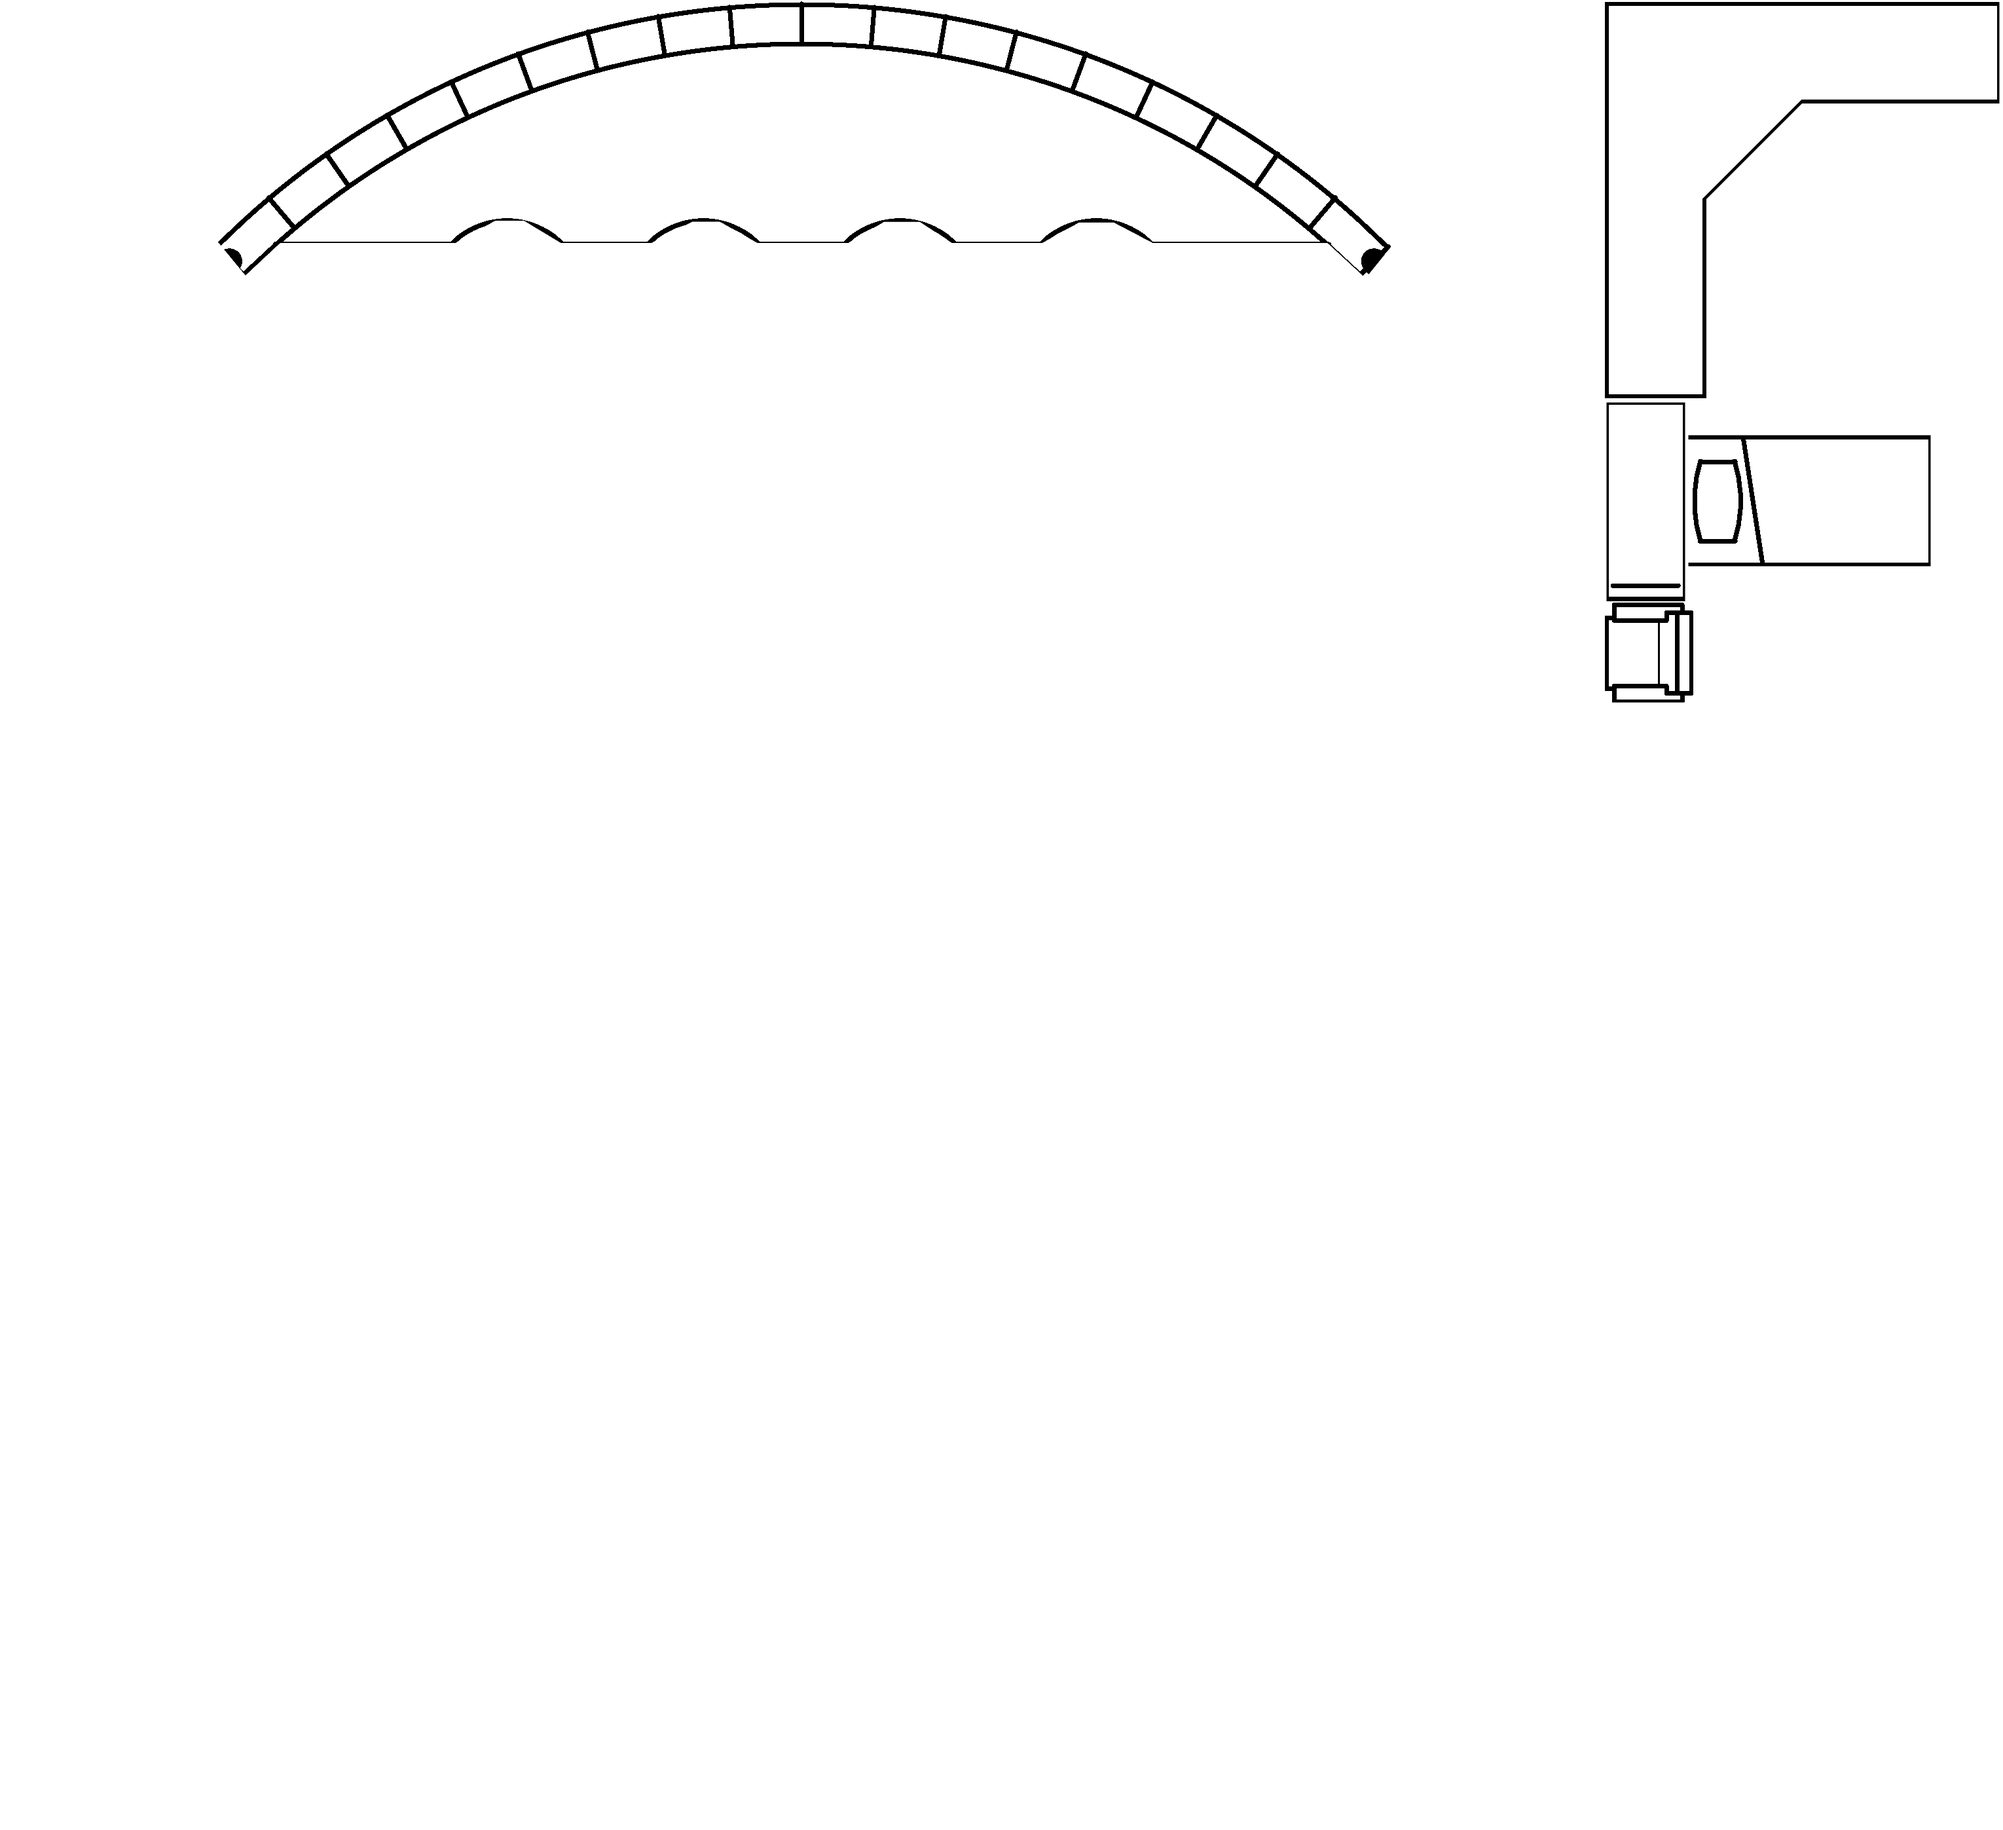
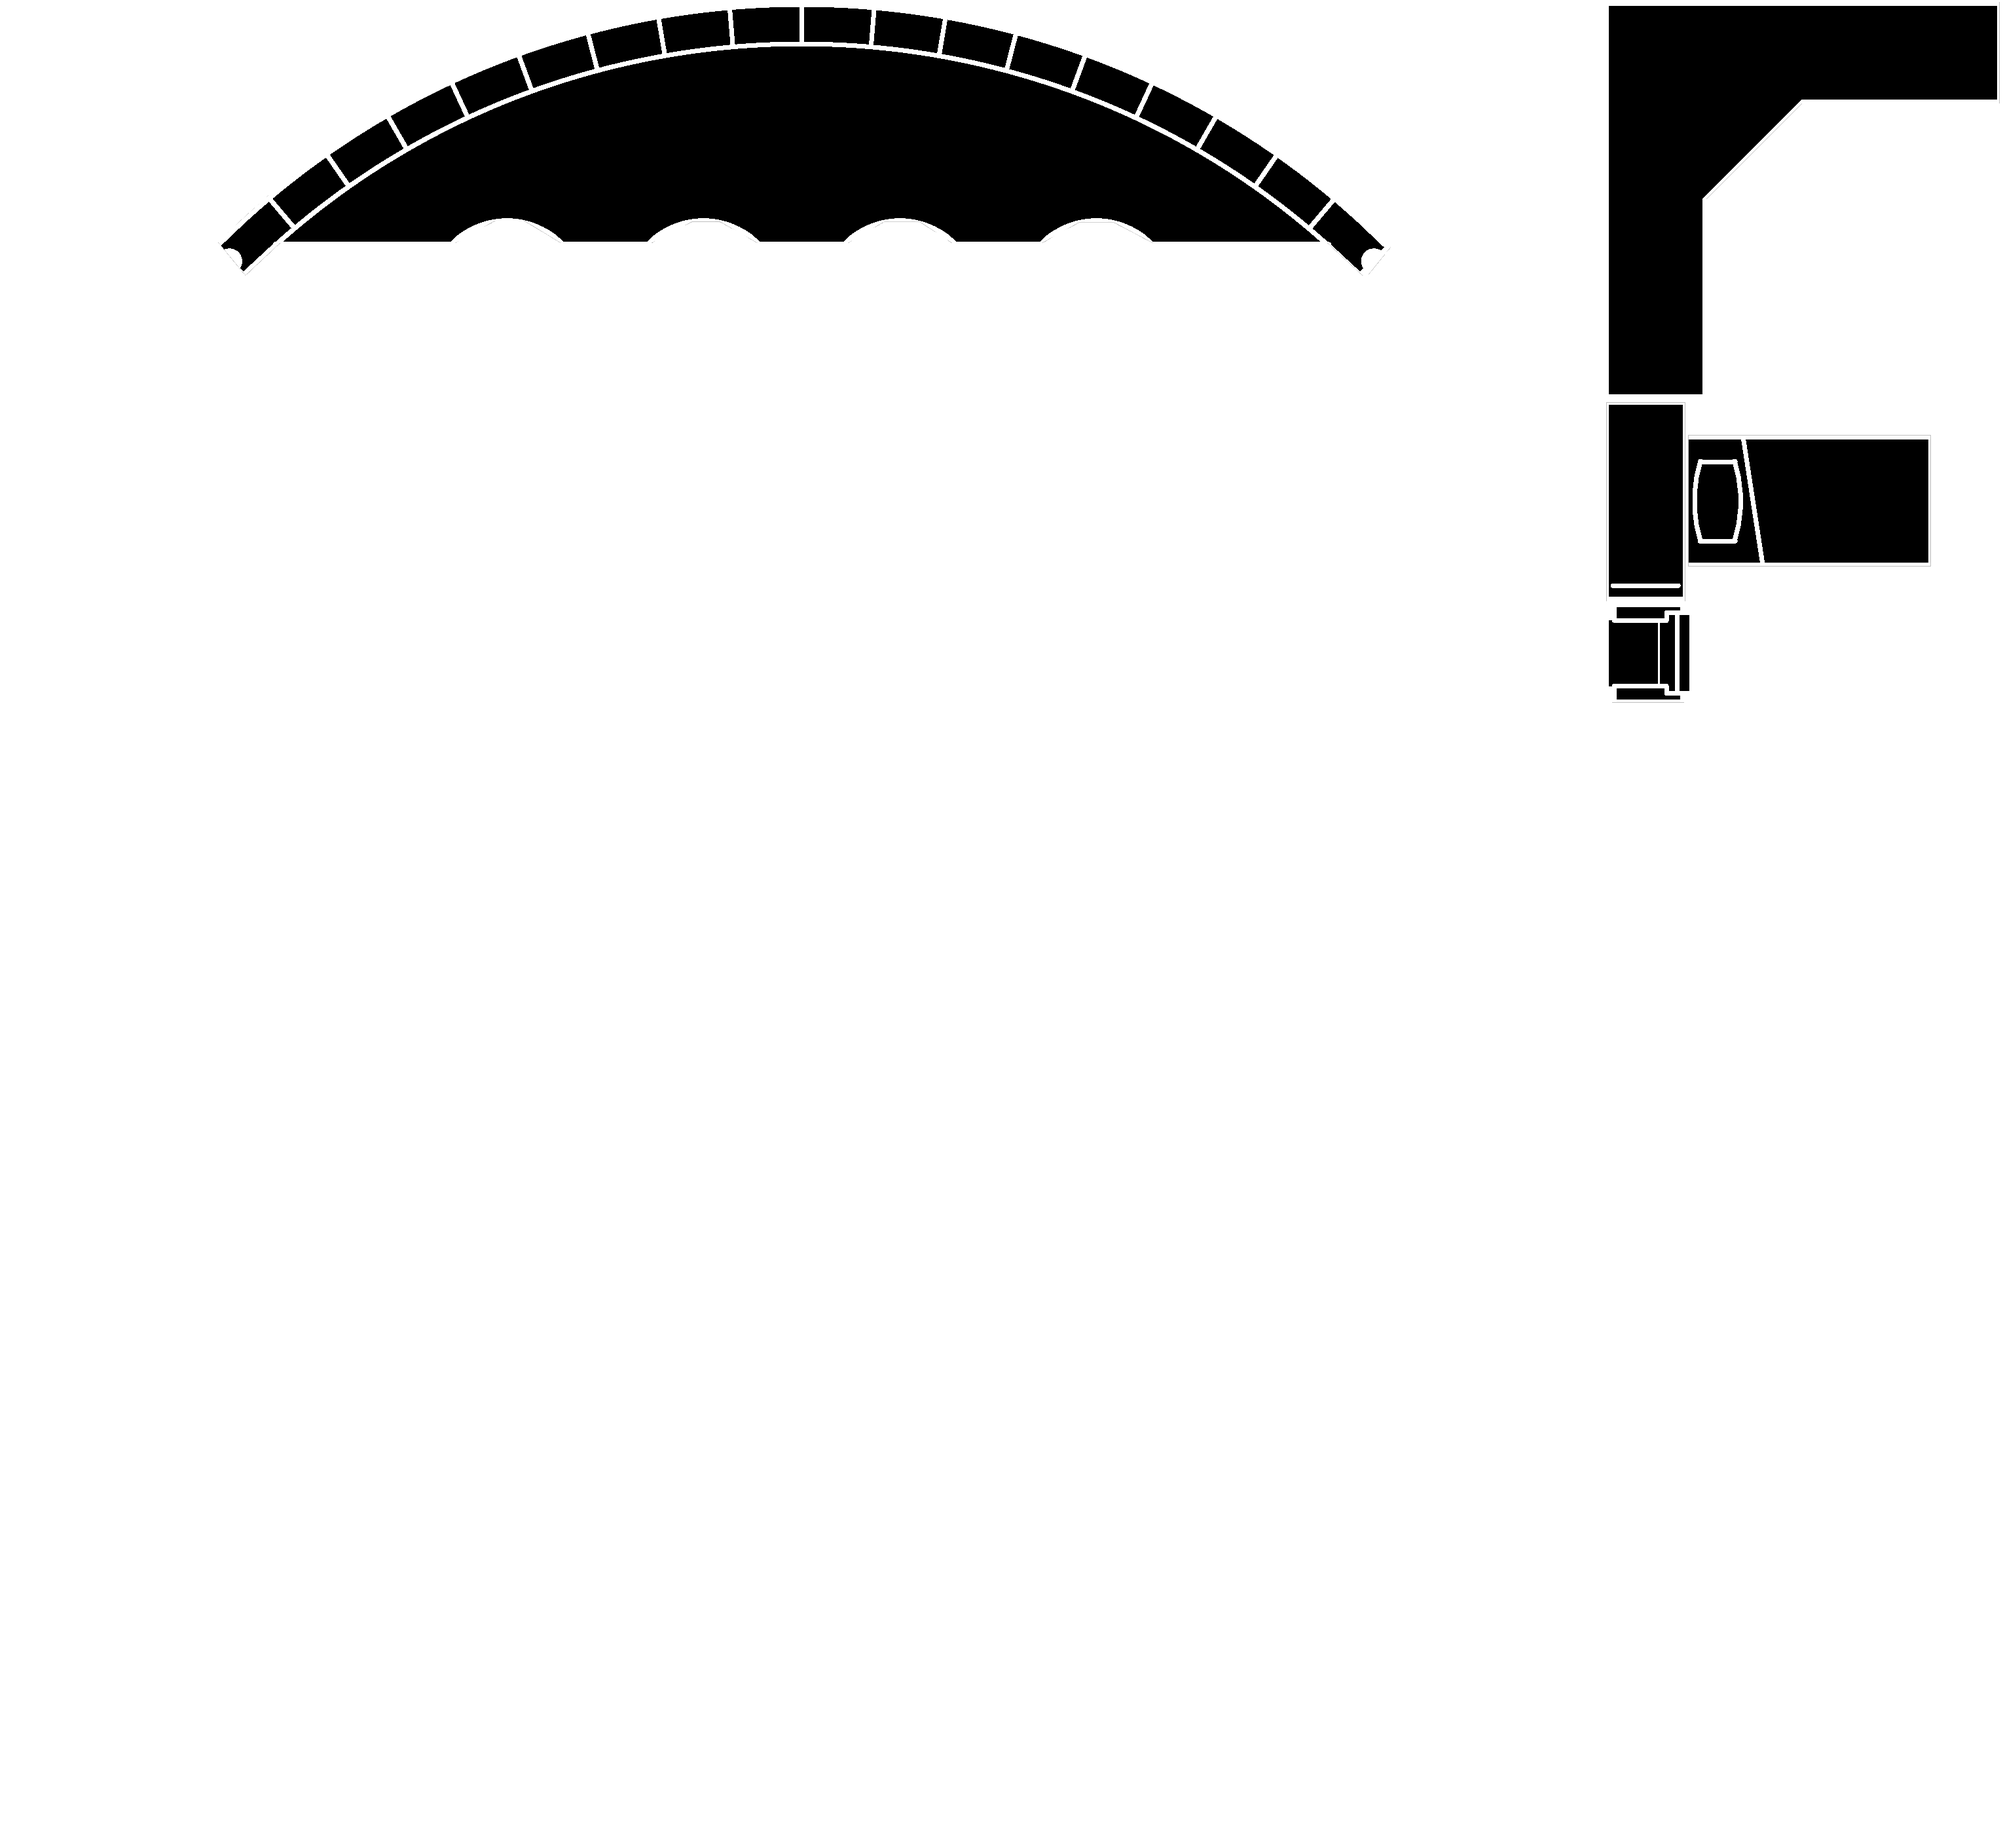
feat: move invert obstacles sheet to script + improve DX

Changed region(s): [[0.0932, 0.0, 0.7143, 0.1557], [0.7764, 0.0, 1.0, 0.4048]]

diff --git a/packages/ui/world/src/components/Obstacles.tsx b/packages/ui/world/src/components/Obstacles.tsx
@@ -2,8 +2,8 @@ import { sguScaleSvgToPngFactor } from "@npc-cli/media/starship-symbol";
 import { useStateRef } from "@npc-cli/util";
 import { getDevCacheBustQueryParam } from "@npc-cli/util/fetch-parsed";
 import { Mat, Vect } from "@npc-cli/util/geom";
-import { invertCanvas } from "@npc-cli/util/legacy/dom";
 import { pause, warn } from "@npc-cli/util/legacy/generic";
+import { useQuery } from "@tanstack/react-query";
 import React, { useMemo } from "react";
 import { generateUUID } from "three/src/math/MathUtils.js";
 import { texture } from "three/src/nodes/accessors/TextureNode.js";
@@ -33,7 +33,7 @@ export default function Obstacles(_props: Props) {
       uvDimensions: new Float32Array(MAX_OBSTACLE_QUAD_INSTANCES * 2),
       /** itemSize 1 */
       uvTextureIds: new Uint32Array(MAX_OBSTACLE_QUAD_INSTANCES),
-      images: [],
+      images: [] as HTMLImageElement[],
 
       addUvs() {
         if (!w.sheets) return;
@@ -84,7 +84,7 @@ export default function Obstacles(_props: Props) {
       },
 
       async draw() {
-        if (!w.sheets) return;
+        if (!w.sheets || state.images.length === 0) return;
         const { ct } = w.texObs;
         const { maxSymbolSheetDim, symbolSheetDims } = w.sheets;
 
@@ -93,24 +93,10 @@ export default function Obstacles(_props: Props) {
           width: maxSymbolSheetDim.width,
           height: maxSymbolSheetDim.height,
         });
-
-        // 🚧 cache image and only update on dev event (triggered by watching spritesheet PNGs)
-        if (state.images.length > 0) return;
-
-        state.images = Array.from({ length: symbolSheetDims.length }).map(() => new Image());
-        for (let sheetId = 0; sheetId < symbolSheetDims.length; sheetId++) {
-          const img = state.images[sheetId];
-          img.src = `/sheet/symbols.${sheetId}.png${getDevCacheBustQueryParam()}`;
-          await new Promise<void>((resolve) => {
-            img.onload = () => {
-              ct.clearRect(0, 0, ct.canvas.width, ct.canvas.height);
-              ct.drawImage(img, 0, 0);
-              invertCanvas(ct.canvas, copyCtxt, maskCtxt);
-              w.texObs.updateIndex(sheetId);
-              resolve();
-            };
-          });
-          await pause();
+        for (let sheetId = 0; sheetId < state.images.length; sheetId++) {
+          ct.clearRect(0, 0, ct.canvas.width, ct.canvas.height);
+          ct.drawImage(state.images[sheetId], 0, 0);
+          w.texObs.updateIndex(sheetId);
         }
       },
 
@@ -201,6 +187,15 @@ export default function Obstacles(_props: Props) {
     return { texNode: texNode.depth(uvTexIds), uid: generateUUID() };
   }, [w.texObs.hash]);
 
+  state.images =
+    useQuery({
+      queryKey: [...w.worldQueryPrefix, "obstacle-images"],
+      async queryFn() {
+        return loadObstacleImages(w.sheets.symbolSheetDims.length);
+      },
+      enabled: !!w.sheets,
+    }).data ?? state.images;
+
   React.useEffect(() => {
     state.addUvs();
     state.transformAndColorObstacles();
@@ -211,7 +206,7 @@ export default function Obstacles(_props: Props) {
       state.sendDataToGpu();
       w.update();
     });
-  }, [w.mapKey, w.hash, w.gmsData.count.obstacles]);
+  }, [w.mapKey, w.hash, w.gmsData.count.obstacles, state.images]);
 
   const skirtCount = w.gmsData.count.obstacles * 4;
 
@@ -284,5 +279,29 @@ const tmpMatFour1 = new THREE.Matrix4();
 const tmpMatFour2 = new THREE.Matrix4();
 const tmpColor = new THREE.Color();
 
-const copyCtxt = document.createElement("canvas").getContext("2d") as CanvasRenderingContext2D;
-const maskCtxt = document.createElement("canvas").getContext("2d") as CanvasRenderingContext2D;
+function loadImage(src: string): Promise<HTMLImageElement> {
+  const img = new Image();
+  img.src = src;
+  return new Promise<HTMLImageElement>((resolve, reject) => {
+    img.onload = () => resolve(img);
+    img.onerror = () => reject(new Error(`Failed to load ${src}`));
+  });
+}
+
+async function loadObstacleImages(numSheets: number): Promise<HTMLImageElement[]> {
+  const images: HTMLImageElement[] = [];
+  for (let sheetId = 0; sheetId < numSheets; sheetId++) {
+    let img: HTMLImageElement;
+    if (import.meta.env.DEV) {
+      img = await loadImage(`/sheet/symbols.${sheetId}.png${getDevCacheBustQueryParam()}`);
+    } else {
+      try {
+        img = await loadImage(`/sheet/symbols.prod.${sheetId}.png`);
+      } catch {
+        img = await loadImage(`/sheet/symbols.${sheetId}.png`);
+      }
+    }
+    images.push(img);
+  }
+  return images;
+}

diff --git a/scripts/src/bins/gen-starship-sheets.ts b/scripts/src/bins/gen-starship-sheets.ts
@@ -172,6 +172,18 @@ for (const [sheetId, bin] of bins.entries()) {
     }
   }
 
+  // Invert colors while preserving transparency
+  const maskCanvas = new Canvas(bin.width, bin.height);
+  const maskCt = maskCanvas.getContext("2d");
+  maskCt.drawImage(canvas, 0, 0);
+  maskCt.globalCompositeOperation = "source-in";
+  maskCt.fillStyle = "#ffffff";
+  maskCt.fillRect(0, 0, bin.width, bin.height);
+  maskCt.globalCompositeOperation = "source-over";
+  ct.globalCompositeOperation = "difference";
+  ct.drawImage(maskCanvas, 0, 0);
+  ct.globalCompositeOperation = "source-over";
+
   await canvas.toFile(`${baseSymbolsSheetPath}.${opts.values.prod ? `prod.${sheetId}` : sheetId}.png`);
 }
 

diff --git a/TODO.md b/TODO.md
@@ -1,19 +1,21 @@
 # TODO
 
-- 🚧 currently must re-run `pnpm gen-starship-sheets` per obstacle polygon change
+- ✅ currently must re-run `pnpm gen-starship-sheets` per obstacle polygon change
   - 🔔 triangle in `console--019--2x2` whose rect extension exposes part of a chair
   - could automate this... we still avoid "changing spritesheet problem"
   - ✅ assets.json has number `hash.obstacles`
   - ❌ `pnpm gen-assets-json` triggers `pnpm gen-starship-sheets` onchange hash.obstacles
     - we'll keep `hash.obstacles` though
-  - 🚧 support `public/starship-symbol/masks`
+  - ✅ support `public/starship-symbol/masks`
     - used when drawing obstacle sprite-sheets
     - ✅ example of mask
     - ✅ in `pnpm gen-starship-sheets` we should account for masks
     - ✅ put restrict to obstacle polys under `--prod`
       - probably should run in a git hook
     - ✅ clean up gen code
-    - 🚧 run `pnpm gen-starship-sheets --prod` on commit or push
+    - ✅ run `pnpm gen-starship-sheets --prod` on commit or push
+    - ✅ move invert colours to script
+    - ✅ can trigger refresh in dev via tanstack query devtools
 
 - ✅ avoid `<Obstacles>` flicker by only uploading to GPU once drawing finished
 
